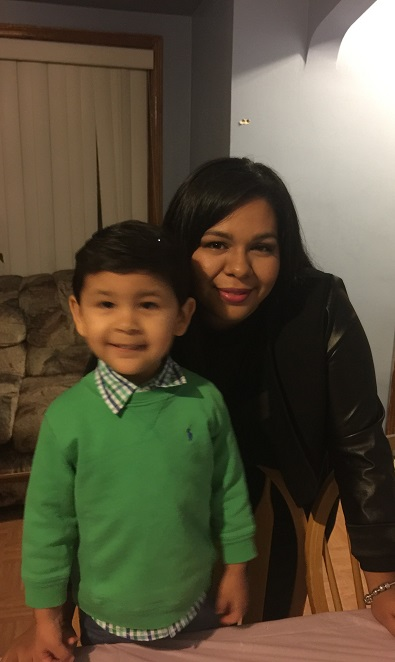
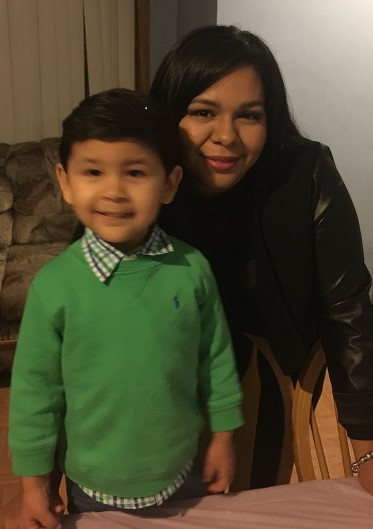
Final Corrections

diff --git a/Consuelo HTML Project/resume.html b/Consuelo HTML Project/resume.html
@@ -32,20 +32,21 @@
 			</p>
 		</section>
        <section id="Skills">
-        <h3>Skills</h3>
+        <h2>Skills</h2>
 			<ul>
-				<li class="closed">Proficient in Microsoft Office Suite (Word, Excel, PowerPoint, Outlook, and Access)
-				<li class="closed">Proficient in document design and presentation software
-				<li class="closed">High knowledge in data research and software analysis
-				<li class="closed">Familiar with web-based software applications
-				<li class="closed">Working Knowledge in Adobe Photoshop, Adobe DreamWeaver
-				<li class="closed">WPM: 55-60
+				<li>Proficient in Microsoft Office Suite (Word, Excel, PowerPoint, Outlook, and Access)
+				<li>Proficient in document design and presentation software
+				<li>High knowledge in data research and software analysis
+				<li>Familiar with web-based software applications
+				<li>Working Knowledge in Adobe Photoshop, Adobe DreamWeaver
+				<li>WPM: 55-60
 			</ul>
 		</section>
-	    <section id="work experience">
+		
+	    <section id="Work">
 		<h2>Work Experience</h2>
 			<h3>JPMORGAN CHASE, CHICAGO, IL</h3>
-			<h4>Teller<h4>
+			<h4>Teller</h4>
 				<ul>
 					<li>Managed to multitask in every transaction
 					<li>Paid attention to detail in order to protect customer’s information
@@ -55,7 +56,7 @@
 				</ul>
          
         <h3>STATE FARM INSURANCE, CHICAGO, IL</h3>
-			Sales Associate Assistant
+			<h4>Sales Associate Assistant</h4>
 				<ul>
 					<li>Organized stored facility
 					<li>Spanish interpreter on client meetings
@@ -63,7 +64,7 @@
 				</ul>
        
 		<h3><strong>UNIVERSIDAD POPULAR, CHICAGO, IL</strong></h3>
-			Database Entry, Legal Clinic Assistant, Database Administrator
+			<h4>Database Entry, Legal Clinic Assistant, Database Administrator</h4>
 				<ul>
 					<li>Worked on Database entry using Microsoft Excel
 					<li>Entered data for students that attended to Bilingual classes
@@ -72,13 +73,13 @@
 		</section>
 		<section id="Education">
 		<h2>Education</h2>
-			<h3><strong>ILLINOIS INSTITUTE OF TECHNOLOGY</h3></strong>
+			<h3>ILLINOIS INSTITUTE OF TECHNOLOGY</h3>
 				<ul>
 					<li>Information Technology 
 					<li>Bachelors in Information Technology: May 2018
 				</ul>
     
-		<h3><strong>HAROLD WASHINGTON COLLEGE, CHICAGO IL</h3></strong>
+		<h3><strong>HAROLD WASHINGTON COLLEGE, CHICAGO IL</strong></h3>
 			<ul>
 				<li>33 Credit hours completed
 				<li>Associates in General Studies

diff --git a/Consuelo HTML Project/aboutme.html b/Consuelo HTML Project/aboutme.html
@@ -19,15 +19,16 @@
      <header>
 		<h1>About Me</h1>
 	 </header>
-		<main class="content">
+		
+		<div class="me">
 			
 			<figure>
-				<img src="me.jpg" alt="This is a picture of me" style="width:395px;height:702px;">
+				<img src="me.jpg" alt="This is a picture of me" style="width:300px;height:533px;">
 					<figcaption>
 						<p> This picture was taken in the Hancock Observatory</p>
 					</figcaption>
 			</figure>
-					
+		</div>			
 		<section id="Future">
 	<header>
 		<h3>Future Plans</h3>
@@ -45,23 +46,26 @@
 	</header>
 			<p>I love to read during my timeoff as well as watch different TV shows.
 			   I also love sports. I love to play and watch the games. My favorite sport
-			   is basketball. I also like to watch baseball. I was really excited to see the Chcago Cubs 
-			   win the world series. It was such an unforgetable experience.
+			   is basketball. I also like to watch baseball. I was really excited to 
+			   see the Chcago Cubs win the world series. It was such an unforgetable 
+			   experience.
 			</p>
+			
 		<h3>Video of the Cubs winning the World Series</h3>
 			<object data="https://www.youtube.com/embed/HOp8w2PgHlM" 
 				width="560" height="315"></object>
 
 		
-		<h4> These are some of my favorite books, TV shows, and teams. </h4>
+		<h4> These are some of my favorite books: </h4>
 			<ul>
 				<li>Pride and Prejustice
 				<li>The Great Gasby
 			</ul>
-			<br>Favorite TV shows
+			<h4>Favorite TV shows:</h4>
 			<ul>
 				<li>Orange is the New Black
 				<li>The Big Bang Theory 
+				<li>Project Runway
 			</ul>
 		</section>
 		<section id="family">	
@@ -72,13 +76,12 @@
 			</p>
 		
 			<figure>	
-				<img src="IMG_1697.jpg" alt="This is a my little nephew and I" style="width:395px;height:662px;">
+				<img src="IMG_1697.jpg" alt="This is a my little nephew and I" style="width:300px;height:503px;">
 				<figcaption>
-					<p> This was taken in my birthday party. </p>
+					<p> This was taken on my birthday party. </p>
 				</figcaption>
 			</figure>	
 		</section>
-		 </main>
 		  <footer>
 		<p>Designed by Consuelo Huerta</p>
 	  </footer>

diff --git a/Consuelo HTML Project/style.css b/Consuelo HTML Project/style.css
@@ -14,17 +14,13 @@ a,abbr,acronym,address,applet,article,aside,audio,b,big,blockquote,body,canvas,c
 */
 
 
-/* ==== Body ==== */
-
-
-	body{
-		margin:;
-		padding:;
-		font: normal 100% "Arial Black", Gadget, sans-serif;
+	html{
+		font-family: "Arial Black", Gadget, sans-serif;
+		font-size: 1em; /*16px*/
+		line-height: 1.25em; /*20px @ 16px em= 1 gridline */
 	}
 	.page{
-		width: 960px;
-		margin:0 auto;
+		padding: 1.25em 1.25em; /*20px @ 16px em*/
 	
 	}
 	
@@ -32,8 +28,8 @@ a,abbr,acronym,address,applet,article,aside,audio,b,big,blockquote,body,canvas,c
 	nav{
 		background-color: black;
 		height:50px;
-		width: 100%;
-		
+		width: 150%;
+	
 	}
 	
 	nav ul{
@@ -57,27 +53,69 @@ a,abbr,acronym,address,applet,article,aside,audio,b,big,blockquote,body,canvas,c
  	
 	h1{
 		text-align: center;
-		font-size: 1.5 em; /*24px / 16px */
+		font-size: 2.1875em; /* 35px/16px em*/
+		line-height: 1.142em; /* 40px/35px em*/
+		padding-bottom: 0.57em; /* 20px/35px em */ 
 	}
 	
 	h2{
-		
+		text-align: left;
+		font-weight: bold;
+		font-size: 1.255em; /* 20px/16px em*/
+		line-height: 1.1em; /* 22px/20px em*/
+		padding-bottom: 0.2em;
+		padding-top: 0.5em;
 	}
 	
 	h3{
+		text-align:left;
+		font-weight: bold;
+		font-size: 1.1em; /* 16px/16px em*/
+		line-height: 1.1em; /* 18px/16px em*/
+		padding-bottom: 0.5em;  
+		padding-top: 1em;
+	}
+		
+	h4{
+		font-weight: bold; 
 		
 	}
+		
+	
 	h5{
 		text-align:center;
 	}
 	
 	
-	img{
+	img,
+	object,
+	.jpeg{
 		display: block;
-		margin-left: auto;
-		margin-right: auto;
+		max-width: 100%;
+		max-height: 100%;
+		padding-bottom: 1.125em;
+		margin: 0 auto;
 	}
+	
+	figcaption{
+		font-style:italic;
+		padding-bottom: 0.57em;
+		text-align: center;
+	}
+	
+	ul li{
+		list-style: disc inside;
+		padding-left: 1.125em; /* 18px/16px em*/
+		padding-bottom:0;  
+	}
+	
+	p{ 
+		padding-bottom: 1.25em;
+	}
+	
+	
+	
 			
 		 
 		 
-		y
+		

diff --git a/Consuelo HTML Project/home.html b/Consuelo HTML Project/home.html
@@ -21,15 +21,15 @@
 	<h1>Welcome To My Website</h1>
 	
 		<figure>
-			<img src="IMG_0049.jpg" alt "This is a picture of me" style="width:320px;height:426px;">
-				
+			<img src="IMG_0049.jpg" alt="This is a picture of me" style="width:300px;height:399px;">	
 		</figure>
 	</header>
 	
-	<h3> Welcome</h3>
-		<p> My name is Consuelo Huerta.
+	<h3> Welcome!</h3>
+		<p> Hello my name is Consuelo Huerta.
 			I am currently an Illinois Institute Undergraduate student.
 			I was born and raised in Chicago.
+			Hope you all like my website and get to know more about me.
 		</p>
 		<footer>
 			<p>Designed by Consuelo Huerta</p>
